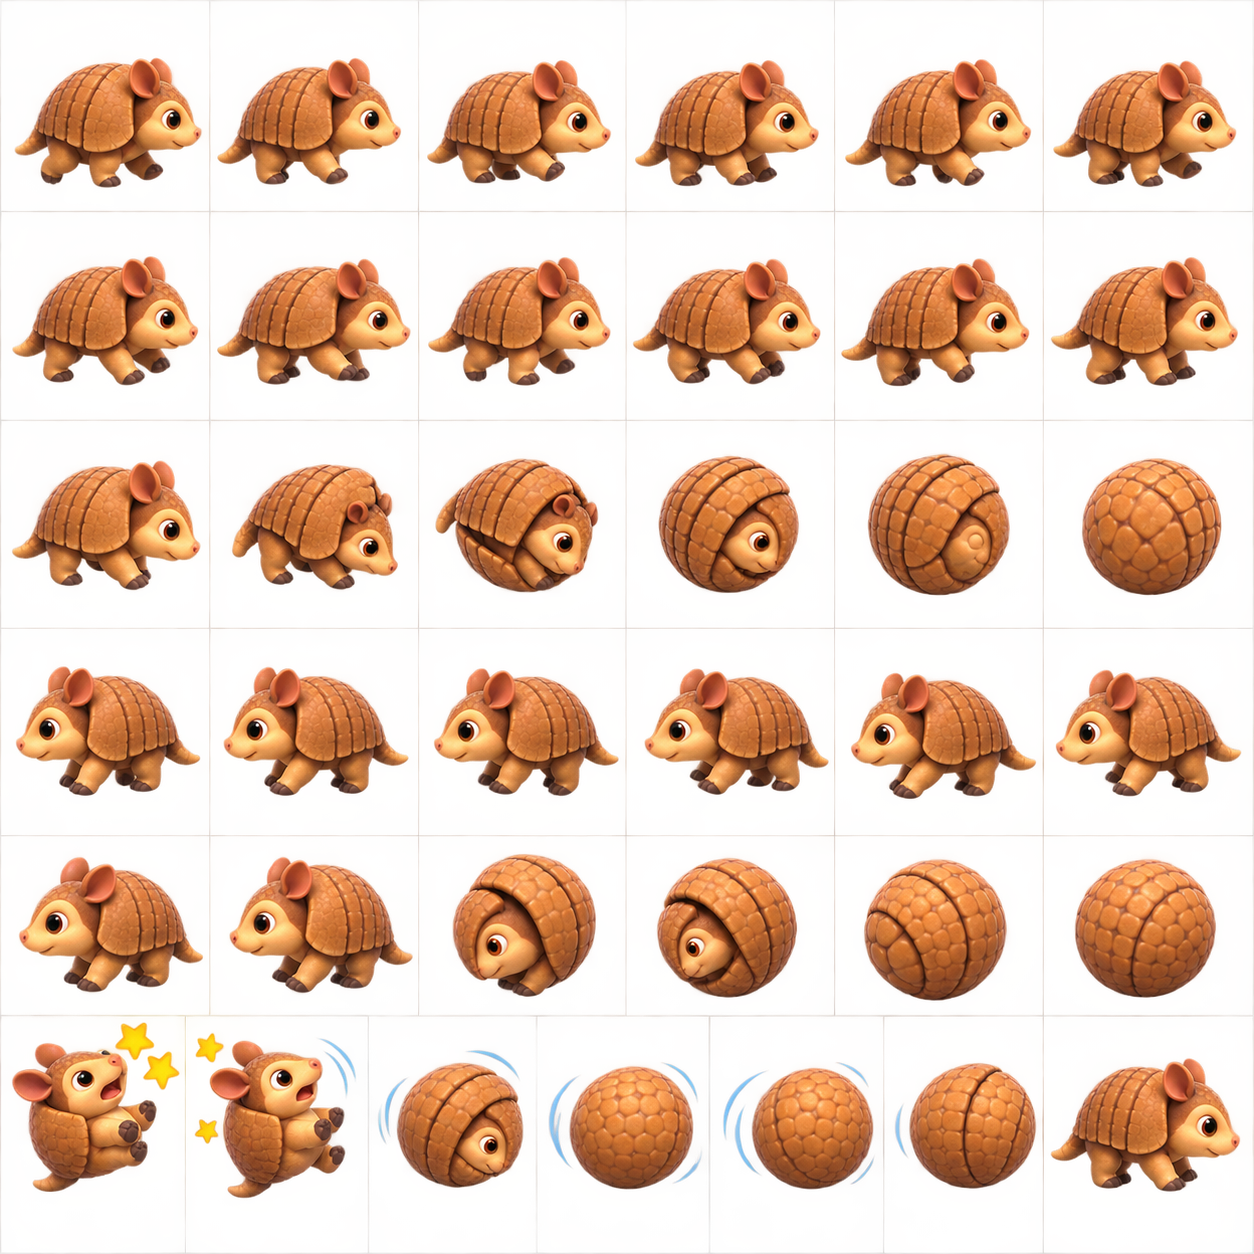
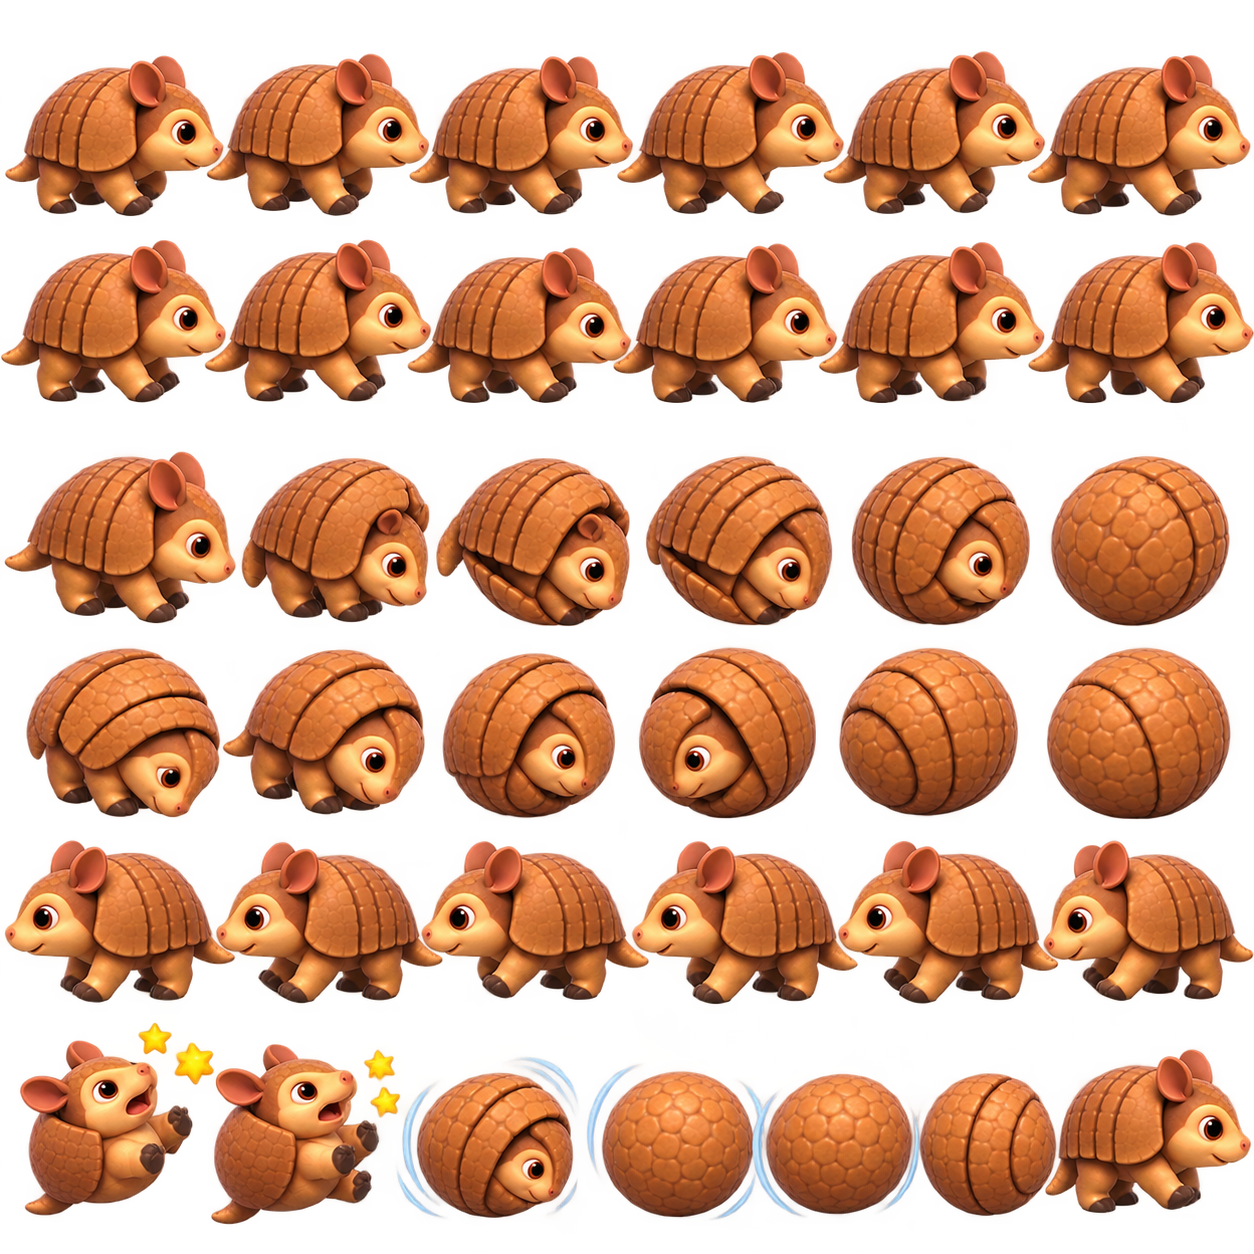
0.3.5 — tatu lido pelas faixas e recortes reais da folha

diff --git a/index.html b/index.html
@@ -120,7 +120,10 @@ const CFG = {
     crab1:{ file:"assets/ep1/caranguejo_sheet.png", cols:6, rows:6, frames:{idle:2, walk:6, claws:6, idleBack:2, walkBack:6, clawsBack:6}, fps:8, height:95, foot:70 },
     crab2:{ file:"assets/ep2/caranguejo_sheet.png", cols:6, rows:6, frames:{idle:2, walk:6, claws:6, idleBack:2, walkBack:6, clawsBack:6}, fps:8, height:95, foot:70 }, // caranguejo de porão (navio)
     // tatu-bola: folha com linhas por lado (sem espelhar). rowsLR = número da linha de cada animação; 'curl' = enrolar (toca uma vez, segura, e desenrola no fim)
-    crab3:{ file:"assets/ep3/tatu_sheet.png", cols:6, rows:6, layout:'lr', rowsLR:{ idleR:0, walkR:1, curlR:2, idleL:3, walkL:3, curlL:4 }, frames:{idle:6, walk:6, curl:6, idleL:1}, fps:8, height:95, foot:30 },
+    crab3:{ file:"assets/ep3/tatu_sheet.png", cols:6, rows:6, layout:'lr', rowsLR:{ idleR:0, walkR:1, curlR:2, curlL:3, idleL:4, walkL:4 }, frames:{idle:1, walk:6, curl:6, idleL:1}, fps:8, height:100, foot:0,
+      // a arte não está alinhada na grade de 209 px: estas são as faixas reais de cada linha (y inicial, y final) e, nas linhas de enrolar, os recortes reais de cada quadro (x inicial, x final)
+      rowY:[[51,216],[239,404],[451,626],[647,820],[840,1005]],
+      colX:{ 2:[[4,236],[241,430],[436,630],[645,833],[851,1030],[1050,1230]], 3:[[26,221],[222,425],[442,615],[638,816],[839,1018],[1047,1231]] } },
     // piratas da fase 2 (opcionais): mesmo esquema dos heróis — linhas: parado, andando, pulando (usada quando tonto), braços (jogando barril); 4 linhas olhando pra DIREITA (o jogo espelha) ou 8 linhas
     pirate:{ file:"assets/ep2/pirata_sheet.png", cols:6, rows:4, frames:{idle:2, walk:6, jump:6, arms:6}, fps:8, height:150, foot:22 },
     captain:{ file:"assets/ep2/capitao_sheet.png", cols:6, rows:4, frames:{idle:2, walk:6, jump:6, arms:6}, fps:8, height:220, foot:22 },
@@ -920,8 +923,14 @@ function drawCrabs(){
         fi = el<n*6 ? Math.floor(el/6) : (c.stun<n*6 ? Math.floor(c.stun/6) : n-1); }       // enrola, segura, desenrola
       else { const walking=true; row = walking ? (right?cfg.rowsLR.walkR:cfg.rowsLR.walkL) : (right?cfg.rowsLR.idleR:cfg.rowsLR.idleL);
         const n = walking ? cfg.frames.walk : (right?cfg.frames.idle:(cfg.frames.idleL||cfg.frames.idle)); fi=Math.floor(Date.now()/(1000/(c.flee>0?cfg.fps*2:cfg.fps)))%n; }
-      if(c.stun>0){ ctx.save(); ctx.translate(c.x,GROUND-hh*0.35); ctx.rotate(Math.sin(c.stun/6)*0.15); ctx.translate(-c.x,-(GROUND-hh*0.35)); }
-      ctx.drawImage(sh, fi*fw, row*fh, fw, fh, c.x-ww/2, GROUND-hh+cfg.foot*hh/fh, ww, hh);
+      // recorte real do quadro (faixas medidas) ou célula uniforme
+      let sx=fi*fw, sy=row*fh, sw=fw, shh=fh;
+      if(cfg.rowY&&cfg.rowY[row]){ sy=cfg.rowY[row][0]; shh=cfg.rowY[row][1]-sy; }
+      if(cfg.colX&&cfg.colX[row]&&cfg.colX[row][fi]){ sx=cfg.colX[row][fi][0]; sw=cfg.colX[row][fi][1]-sx; }
+      else { sx+=4; sw-=8; } // apara 4 px de cada lado pra não pegar o rabo do vizinho
+      const sc=hh/fh, dw=sw*sc, dh=shh*sc;
+      if(c.stun>0){ ctx.save(); ctx.translate(c.x,GROUND-dh*0.45); ctx.rotate(Math.sin(c.stun/6)*0.15); ctx.translate(-c.x,-(GROUND-dh*0.45)); }
+      ctx.drawImage(sh, sx, sy, sw, shh, c.x-dw/2, GROUND-dh+cfg.foot*sc, dw, dh);
       if(c.stun>0) ctx.restore();
       continue;
     }

diff --git a/CHANGELOG.md b/CHANGELOG.md
@@ -1,5 +1,8 @@
 # Changelog
 
+## 0.3.5
+- Folha do tatu lida pelas faixas reais de cada linha (`rowY`) e, nas linhas de enrolar, pelos recortes reais de cada quadro (`colX`) — some o vazamento da linha de baixo e dos vizinhos. Linhas: 0 parado dir., 1 anda dir., 2 enrola dir., 3 enrola esq., 4 anda esq.
+
 ## 0.3.4
 - Tatu-bola lê folhas com linhas separadas por lado (`layout:'lr'` em `CFG.sheets.crab3`): parado/andando/enrolar à direita, andando/enrolar à esquerda. Enrola uma vez ao ser acertado, segura e desenrola antes de fugir.
 
